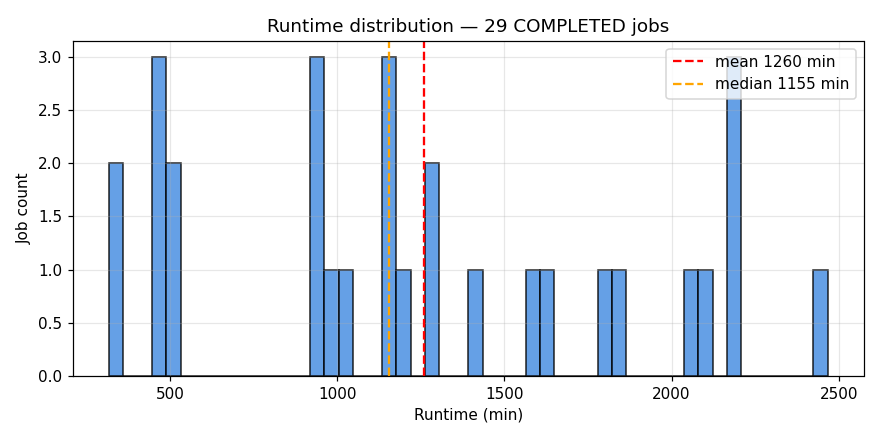
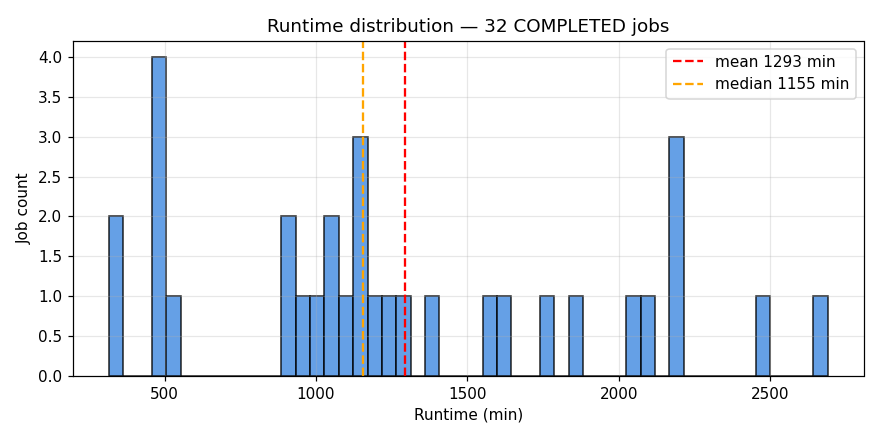
auto: 2026-09-25 15:17:01

diff --git a/index.html b/index.html
@@ -24,29 +24,29 @@ tr:nth-child(even) { background: #fafafa; }
 </style>
 </head><body>
 <h1>AF3 Campaign Dashboard</h1>
-<p class="stamp">Last updated: <strong>2026-09-25 14:16 EDT</strong> · regenerated on the cluster hourly · this page auto-reloads every 30 min</p>
+<p class="stamp">Last updated: <strong>2026-09-25 15:17 EDT</strong> · regenerated on the cluster hourly · this page auto-reloads every 30 min</p>
 
 <div class="cards">
-  <div class="card"><div class="v">1,773</div><div class="l">Total COMPLETED pairs</div></div>
-  <div class="card"><div class="v">692</div><div class="l">Done today</div></div>
-  <div class="card"><div class="v">933</div><div class="l">Last 24 h rate</div></div>
-  <div class="card"><div class="v">19 / 26</div><div class="l">Running / Pending now</div></div>
+  <div class="card"><div class="v">1,808</div><div class="l">Total COMPLETED pairs</div></div>
+  <div class="card"><div class="v">727</div><div class="l">Done today</div></div>
+  <div class="card"><div class="v">940</div><div class="l">Last 24 h rate</div></div>
+  <div class="card"><div class="v">16 / 28</div><div class="l">Running / Pending now</div></div>
 </div>
 
 <h2>Live queue</h2>
 <div class="plots">
   <div>
-    <h3>RUNNING (19)</h3>
+    <h3>RUNNING (16)</h3>
     <div class="queue-table">
       <table><thead><tr><th>Job</th><th>Elapsed</th><th>Left</th><th>Reason / Node</th></tr></thead>
-      <tbody><tr><td>af3_p061_b002</td><td>8:16:20</td><td>1-15:43:40</td><td>alphagpu51</td></tr><tr><td>af3_p061_b001</td><td>9:09:45</td><td>1-14:50:15</td><td>alphagpu53</td></tr><tr><td>af3_p060_b002</td><td>9:29:28</td><td>1-14:30:32</td><td>alphagpu51</td></tr><tr><td>af3_p060_b001</td><td>12:58:18</td><td>1-11:01:42</td><td>alphagpu53</td></tr><tr><td>af3_p059_b002</td><td>13:18:47</td><td>1-10:41:13</td><td>alphagpu52</td></tr><tr><td>af3_p059_b001</td><td>15:16:58</td><td>1-08:43:02</td><td>alphagpu52</td></tr><tr><td>af3_p058_b002</td><td>16:17:05</td><td>1-07:42:55</td><td>alphagpu51</td></tr><tr><td>af3_p058_b001</td><td>16:54:54</td><td>1-07:05:06</td><td>alphagpu53</td></tr><tr><td>af3_p057_b002</td><td>17:00:30</td><td>1-06:59:30</td><td>alphagpu53</td></tr><tr><td>af3_p057_b001</td><td>17:07:45</td><td>1-06:52:15</td><td>alphagpu53</td></tr><tr><td>af3_p056_b002</td><td>17:11:04</td><td>1-06:48:56</td><td>alphagpu51</td></tr><tr><td>af3_p056_b001</td><td>17:22:26</td><td>1-06:37:34</td><td>alphagpu53</td></tr><tr><td>af3_p055_b001</td><td>22:28:24</td><td>1-01:31:36</td><td>alphagpu52</td></tr><tr><td>af3_p054_b001</td><td>22:45:19</td><td>1-01:14:41</td><td>alphagpu52</td></tr><tr><td>af3_p053_b001</td><td>22:55:02</td><td>1-01:04:58</td><td>alphagpu53</td></tr><tr><td>af3_p052_b001</td><td>1-20:06:21</td><td>3:53:39</td><td>alphagpu54</td></tr><tr><td>af3_p051_b001</td><td>1-20:38:10</td><td>3:21:50</td><td>alphagpu54</td></tr><tr><td>af3_p062_b002</td><td>3:29:43</td><td>1-20:30:17</td><td>alphagpu51</td></tr><tr><td>af3_p062_b001</td><td>4:13:14</td><td>1-19:46:46</td><td>alphagpu54</td></tr></tbody></table>
+      <tbody><tr><td>af3_p061_b002</td><td>9:16:54</td><td>1-14:43:06</td><td>alphagpu51</td></tr><tr><td>af3_p061_b001</td><td>10:10:19</td><td>1-13:49:41</td><td>alphagpu53</td></tr><tr><td>af3_p060_b002</td><td>10:30:02</td><td>1-13:29:58</td><td>alphagpu51</td></tr><tr><td>af3_p060_b001</td><td>13:58:52</td><td>1-10:01:08</td><td>alphagpu53</td></tr><tr><td>af3_p059_b002</td><td>14:19:21</td><td>1-09:40:39</td><td>alphagpu52</td></tr><tr><td>af3_p059_b001</td><td>16:17:32</td><td>1-07:42:28</td><td>alphagpu52</td></tr><tr><td>af3_p058_b002</td><td>17:17:39</td><td>1-06:42:21</td><td>alphagpu51</td></tr><tr><td>af3_p058_b001</td><td>17:55:28</td><td>1-06:04:32</td><td>alphagpu53</td></tr><tr><td>af3_p057_b001</td><td>18:08:19</td><td>1-05:51:41</td><td>alphagpu53</td></tr><tr><td>af3_p056_b001</td><td>18:23:00</td><td>1-05:37:00</td><td>alphagpu53</td></tr><tr><td>af3_p055_b001</td><td>23:28:58</td><td>1-00:31:02</td><td>alphagpu52</td></tr><tr><td>af3_p054_b001</td><td>23:45:53</td><td>1-00:14:07</td><td>alphagpu52</td></tr><tr><td>af3_p053_b001</td><td>23:55:36</td><td>1-00:04:24</td><td>alphagpu53</td></tr><tr><td>af3_p052_b001</td><td>1-21:06:55</td><td>2:53:05</td><td>alphagpu54</td></tr><tr><td>af3_p062_b002</td><td>4:30:17</td><td>1-19:29:43</td><td>alphagpu51</td></tr><tr><td>af3_p062_b001</td><td>5:13:48</td><td>1-18:46:12</td><td>alphagpu54</td></tr></tbody></table>
     </div>
   </div>
   <div>
-    <h3>PENDING (26)</h3>
+    <h3>PENDING (28)</h3>
     <div class="queue-table">
       <table><thead><tr><th>Job</th><th>Wait</th><th>Limit</th><th>Reason</th></tr></thead>
-      <tbody><tr><td>af3_p064_b002</td><td>0:00</td><td>2-00:00:00</td><td>(Priority)</td></tr><tr><td>af3_p064_b001</td><td>0:00</td><td>2-00:00:00</td><td>(Priority)</td></tr><tr><td>af3_p063_b002</td><td>0:00</td><td>2-00:00:00</td><td>(Priority)</td></tr><tr><td>af3_p063_b001</td><td>0:00</td><td>2-00:00:00</td><td>(Priority)</td></tr><tr><td>af3_p070_b002</td><td>0:00</td><td>2-00:00:00</td><td>(Priority)</td></tr><tr><td>af3_p070_b001</td><td>0:00</td><td>2-00:00:00</td><td>(Priority)</td></tr><tr><td>af3_p069_b002</td><td>0:00</td><td>2-00:00:00</td><td>(Priority)</td></tr><tr><td>af3_p069_b001</td><td>0:00</td><td>2-00:00:00</td><td>(Priority)</td></tr><tr><td>af3_p068_b002</td><td>0:00</td><td>2-00:00:00</td><td>(Priority)</td></tr><tr><td>af3_p068_b001</td><td>0:00</td><td>2-00:00:00</td><td>(Priority)</td></tr><tr><td>af3_p067_b002</td><td>0:00</td><td>2-00:00:00</td><td>(Priority)</td></tr><tr><td>af3_p067_b001</td><td>0:00</td><td>2-00:00:00</td><td>(Priority)</td></tr><tr><td>af3_p066_b002</td><td>0:00</td><td>2-00:00:00</td><td>(Priority)</td></tr><tr><td>af3_p066_b001</td><td>0:00</td><td>2-00:00:00</td><td>(Priority)</td></tr><tr><td>af3_p065_b002</td><td>0:00</td><td>2-00:00:00</td><td>(Priority)</td></tr><tr><td>af3_p065_b001</td><td>0:00</td><td>2-00:00:00</td><td>(Priority)</td></tr><tr><td>af3_p074_b002</td><td>0:00</td><td>2-00:00:00</td><td>(Priority)</td></tr><tr><td>af3_p074_b001</td><td>0:00</td><td>2-00:00:00</td><td>(Priority)</td></tr><tr><td>af3_p073_b002</td><td>0:00</td><td>2-00:00:00</td><td>(Priority)</td></tr><tr><td>af3_p073_b001</td><td>0:00</td><td>2-00:00:00</td><td>(Priority)</td></tr><tr><td>af3_p072_b002</td><td>0:00</td><td>2-00:00:00</td><td>(Priority)</td></tr><tr><td>af3_p072_b001</td><td>0:00</td><td>2-00:00:00</td><td>(Priority)</td></tr><tr><td>af3_p071_b002</td><td>0:00</td><td>2-00:00:00</td><td>(Priority)</td></tr><tr><td>af3_p071_b001</td><td>0:00</td><td>2-00:00:00</td><td>(Priority)</td></tr><tr><td>af3_p075_b002</td><td>0:00</td><td>2-00:00:00</td><td>(Priority)</td></tr><tr><td>af3_p075_b001</td><td>0:00</td><td>2-00:00:00</td><td>(Priority)</td></tr></tbody></table>
+      <tbody><tr><td>af3_p065_b002</td><td>0:00</td><td>2-00:00:00</td><td>(Priority)</td></tr><tr><td>af3_p065_b001</td><td>0:00</td><td>2-00:00:00</td><td>(Priority)</td></tr><tr><td>af3_p064_b002</td><td>0:00</td><td>2-00:00:00</td><td>(Priority)</td></tr><tr><td>af3_p064_b001</td><td>0:00</td><td>2-00:00:00</td><td>(Priority)</td></tr><tr><td>af3_p063_b002</td><td>0:00</td><td>2-00:00:00</td><td>(Priority)</td></tr><tr><td>af3_p063_b001</td><td>0:00</td><td>2-00:00:00</td><td>(Priority)</td></tr><tr><td>af3_p070_b002</td><td>0:00</td><td>2-00:00:00</td><td>(Priority)</td></tr><tr><td>af3_p070_b001</td><td>0:00</td><td>2-00:00:00</td><td>(Priority)</td></tr><tr><td>af3_p069_b002</td><td>0:00</td><td>2-00:00:00</td><td>(Priority)</td></tr><tr><td>af3_p069_b001</td><td>0:00</td><td>2-00:00:00</td><td>(Priority)</td></tr><tr><td>af3_p068_b002</td><td>0:00</td><td>2-00:00:00</td><td>(Priority)</td></tr><tr><td>af3_p068_b001</td><td>0:00</td><td>2-00:00:00</td><td>(Priority)</td></tr><tr><td>af3_p067_b002</td><td>0:00</td><td>2-00:00:00</td><td>(Priority)</td></tr><tr><td>af3_p067_b001</td><td>0:00</td><td>2-00:00:00</td><td>(Priority)</td></tr><tr><td>af3_p066_b002</td><td>0:00</td><td>2-00:00:00</td><td>(Priority)</td></tr><tr><td>af3_p066_b001</td><td>0:00</td><td>2-00:00:00</td><td>(Priority)</td></tr><tr><td>af3_p074_b002</td><td>0:00</td><td>2-00:00:00</td><td>(Priority)</td></tr><tr><td>af3_p074_b001</td><td>0:00</td><td>2-00:00:00</td><td>(Priority)</td></tr><tr><td>af3_p073_b002</td><td>0:00</td><td>2-00:00:00</td><td>(Priority)</td></tr><tr><td>af3_p073_b001</td><td>0:00</td><td>2-00:00:00</td><td>(Priority)</td></tr><tr><td>af3_p072_b002</td><td>0:00</td><td>2-00:00:00</td><td>(Priority)</td></tr><tr><td>af3_p072_b001</td><td>0:00</td><td>2-00:00:00</td><td>(Priority)</td></tr><tr><td>af3_p071_b002</td><td>0:00</td><td>2-00:00:00</td><td>(Priority)</td></tr><tr><td>af3_p071_b001</td><td>0:00</td><td>2-00:00:00</td><td>(Priority)</td></tr><tr><td>af3_p075_b002</td><td>0:00</td><td>2-00:00:00</td><td>(Priority)</td></tr><tr><td>af3_p075_b001</td><td>0:00</td><td>2-00:00:00</td><td>(Priority)</td></tr><tr><td>af3_p076_b002</td><td>0:00</td><td>2-00:00:00</td><td>(Priority)</td></tr><tr><td>af3_p076_b001</td><td>0:00</td><td>2-00:00:00</td><td>(Priority)</td></tr></tbody></table>
     </div>
   </div>
 </div>
@@ -62,7 +62,7 @@ tr:nth-child(even) { background: #fafafa; }
 </div>
 
 <h2>All-time job state breakdown</h2>
-<table><thead><tr><th>State</th><th>Count</th></tr></thead><tbody><tr><td>COMPLETED</td><td>29</td></tr><tr><td>PENDING</td><td>26</td></tr><tr><td>RUNNING</td><td>19</td></tr></tbody></table>
+<table><thead><tr><th>State</th><th>Count</th></tr></thead><tbody><tr><td>COMPLETED</td><td>32</td></tr><tr><td>PENDING</td><td>28</td></tr><tr><td>RUNNING</td><td>16</td></tr></tbody></table>
 
 <p class="stamp"><small>Generated by <code>generate.py</code> on the SUNY HPC cluster.
 Source / regeneration policy at <a href="https://github.com/matvei-lukianov/af3-dashboard">github.com/matvei-lukianov/af3-dashboard</a></small></p>
